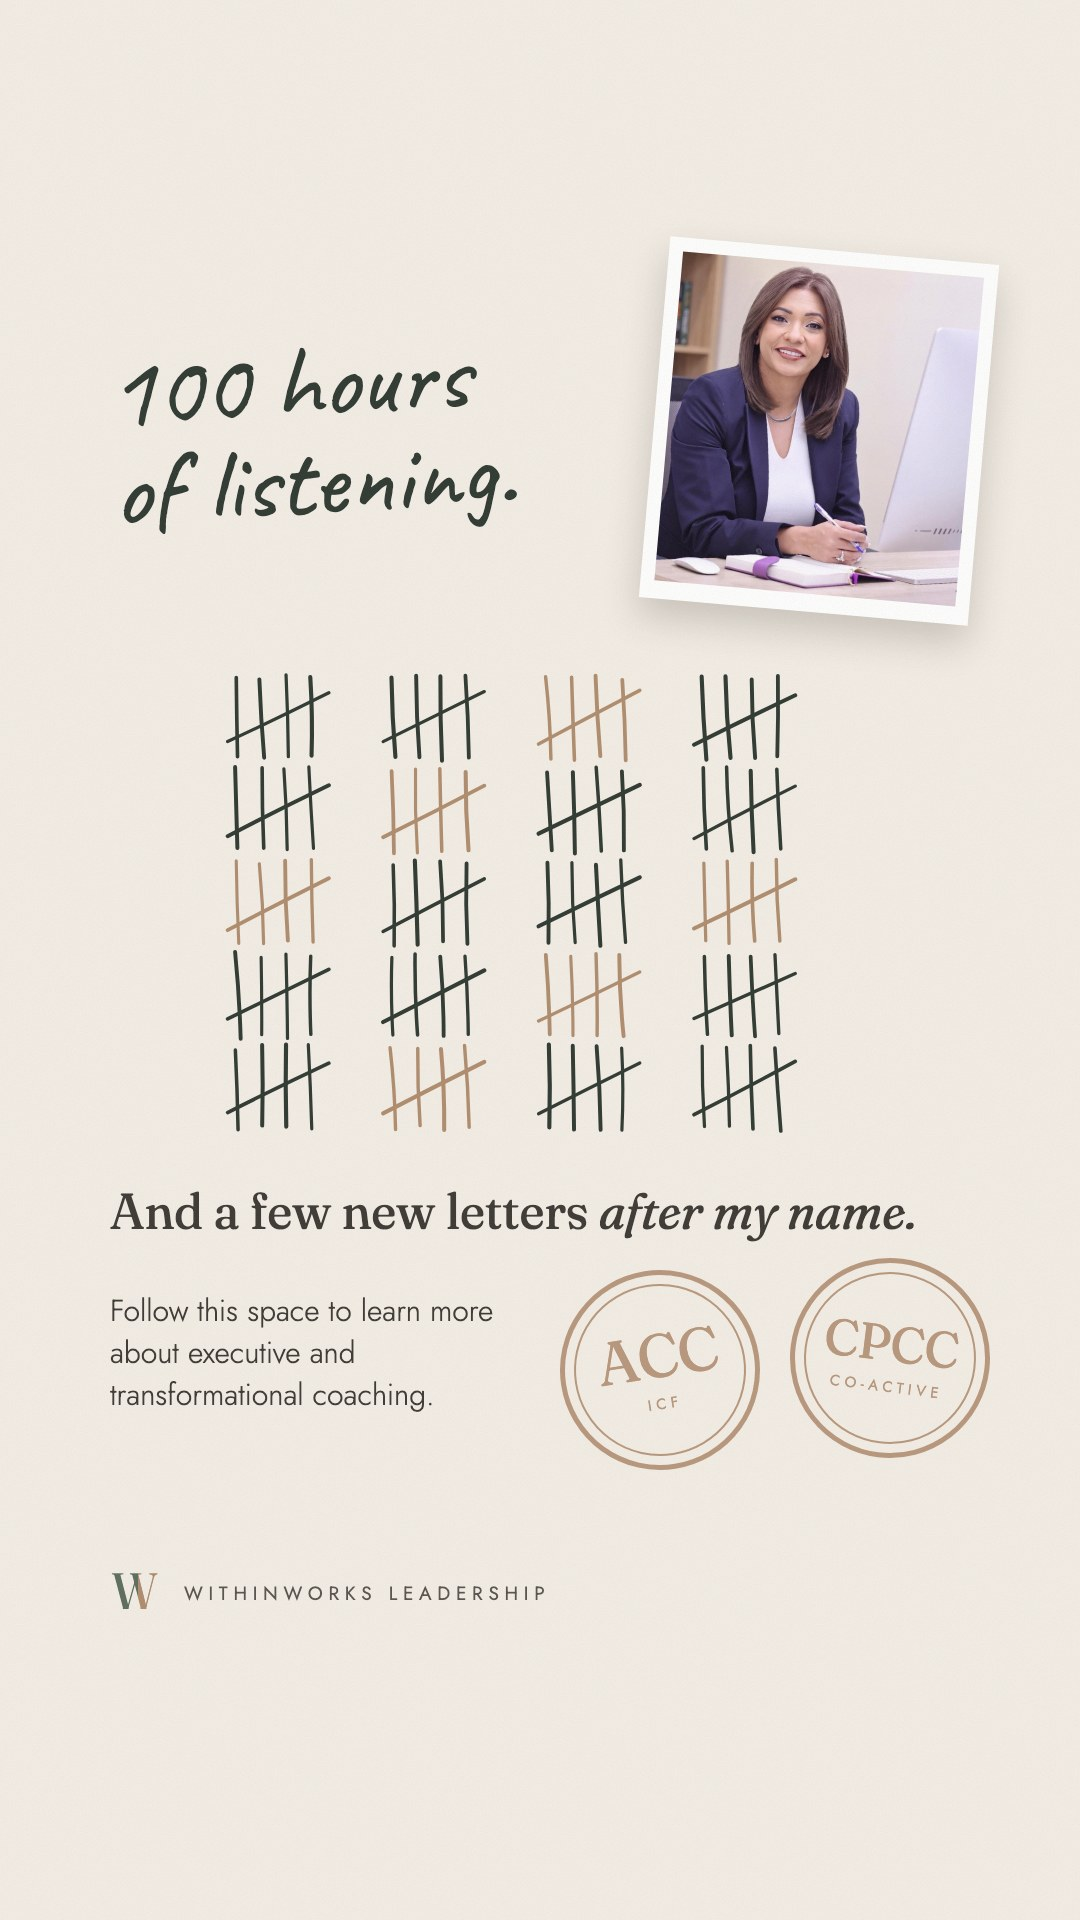
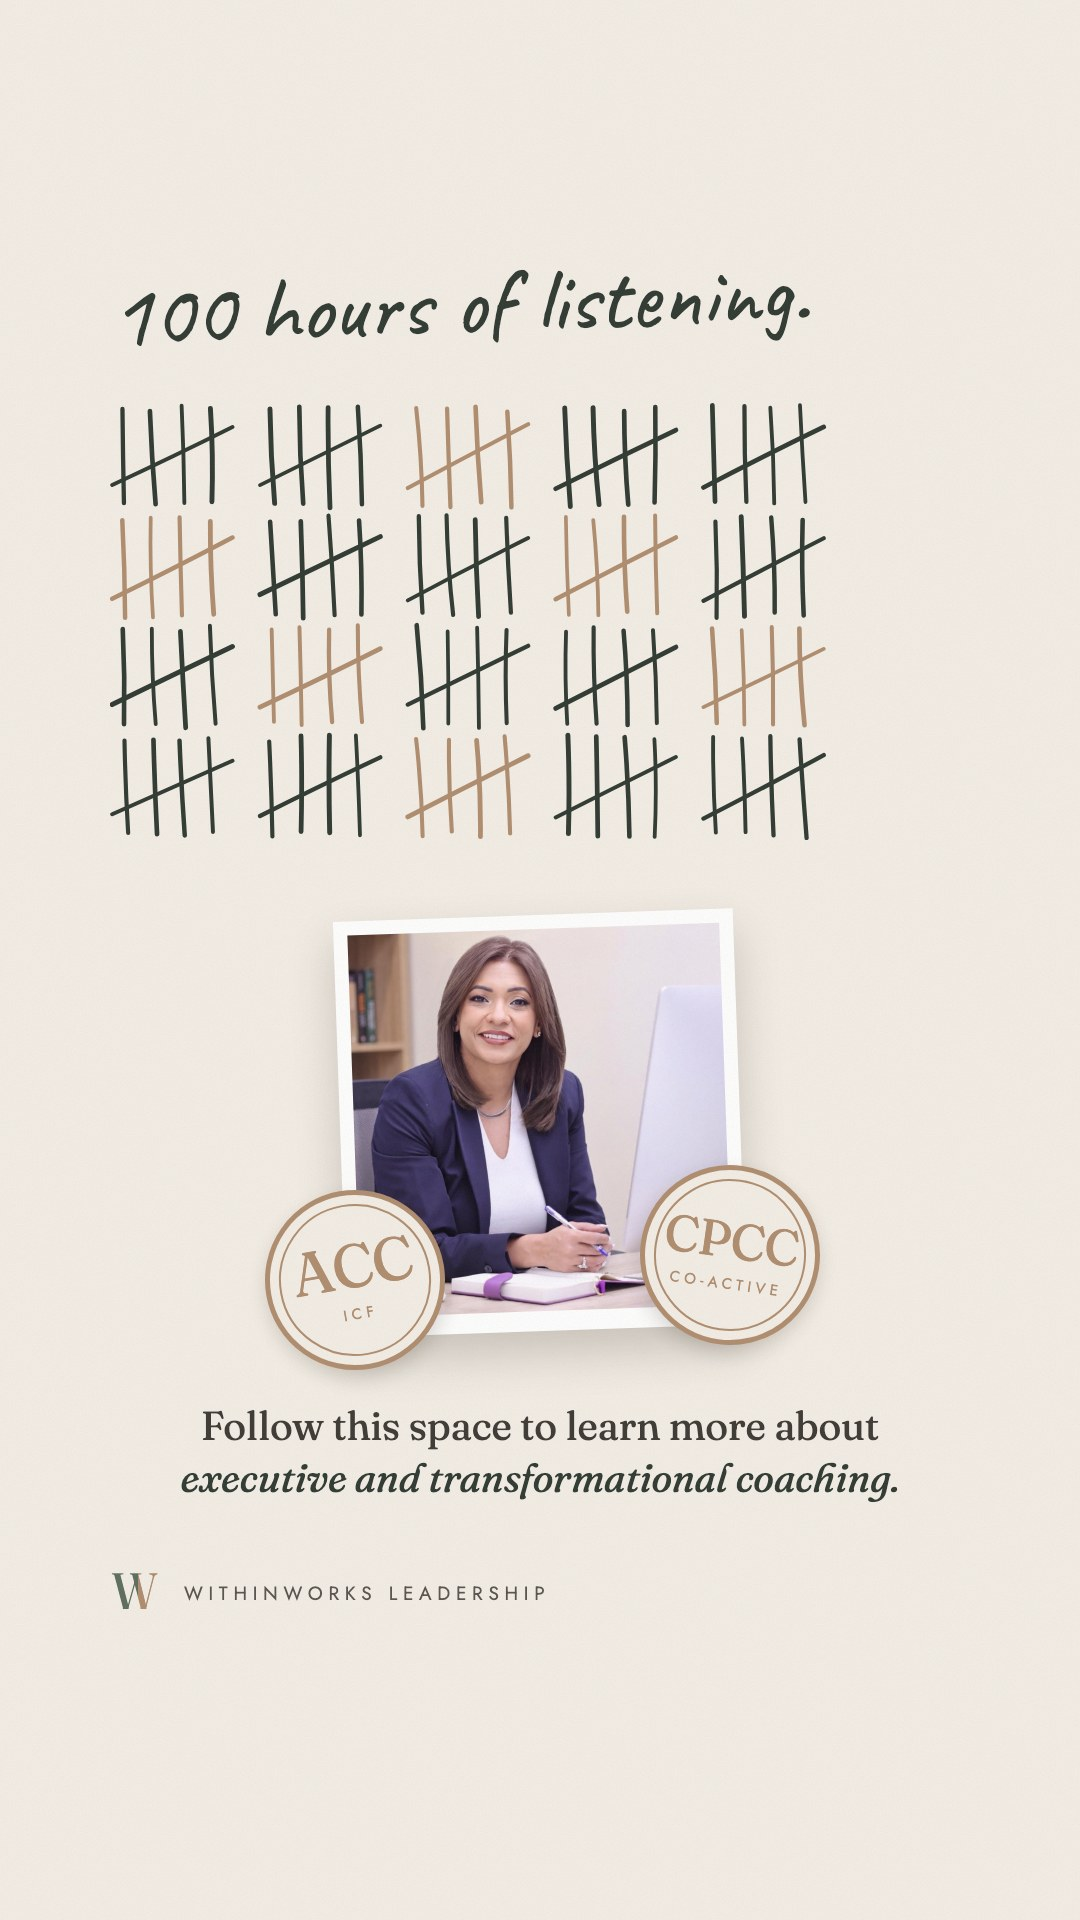
Credentials story final, About title, phone-friendly review

Changed region(s): [[0.0917, 0.125, 0.9167, 0.7812]]

diff --git a/content/index.html b/content/index.html
@@ -23,7 +23,7 @@
 <p class="eyebrow" style="margin-bottom:10px">01 &middot; About Megha<span class="rev">Revised 4 Nov</span></p>
 <div class="ig">
   <div class="ig-head"><img src="../assets/megha.jpg" alt=""><span><b>meghabhalla</b><small>Dubai</small></span><span class="dots">&middot;&middot;&middot;</span></div>
-  <div class="ig-media"><div class="ig-track"><img src="../posts/c1-1a.jpg?v=1793797373" alt="" loading="lazy" width="1080" height="1350"><img src="../posts/c1-1b.jpg?v=1793797704" alt="" loading="lazy" width="1080" height="1350"><img src="../posts/c1-1c.jpg?v=1793797374" alt="" loading="lazy" width="1080" height="1350"></div><span class="ig-count">1/3</span><button class="ig-arrow prev" aria-label="Previous" hidden>&#8249;</button><button class="ig-arrow next" aria-label="Next">&#8250;</button></div>
+  <div class="ig-media"><div class="ig-track"><img src="../posts/c1-1a.jpg?v=1793797373" alt="" loading="lazy" width="1080" height="1350"><img src="../posts/c1-1b.jpg?v=1793798274" alt="" loading="lazy" width="1080" height="1350"><img src="../posts/c1-1c.jpg?v=1793797374" alt="" loading="lazy" width="1080" height="1350"></div><span class="ig-count">1/3</span><button class="ig-arrow prev" aria-label="Previous" hidden>&#8249;</button><button class="ig-arrow next" aria-label="Next">&#8250;</button></div>
   <div class="ig-bar"><svg viewBox="0 0 24 24" class=""><path d="M12 21s-7.5-4.6-9.3-9.2C1.4 8.4 3.6 5 7 5c2 0 3.4 1.1 5 3 1.6-1.9 3-3 5-3 3.4 0 5.6 3.4 4.3 6.8C19.5 16.4 12 21 12 21z"/></svg><svg viewBox="0 0 24 24" class=""><path d="M20.5 12a8.5 8.5 0 0 1-12.4 7.5L3.5 21l1.5-4.4A8.5 8.5 0 1 1 20.5 12z"/></svg><svg viewBox="0 0 24 24" class=""><path d="M22 3 9.2 10.1M22 3l-7 18-3.8-8.6L2 9.5 22 3z"/></svg><span class="ig-pips"><i></i><i></i><i></i></span><svg viewBox="0 0 24 24" class="save"><path d="M19 21l-7-5.2L5 21V3h14z"/></svg></div>
   <div class="ig-cap clip"><b>meghabhalla</b>Hello, I’m Megha. A little of who I am, and why coaching matters so much to me. I’m glad you’re here.</div><button class="ig-more" type="button">more</button>
   <div class="ig-when"><span>Sample &middot; date to be set</span><div class="copyrow"><button class="copy" type="button" title="Copy caption" aria-label="Copy caption"><svg viewBox="0 0 24 24"><rect x="9" y="9" width="11" height="11" rx="2"/><path d="M5 15V6a2 2 0 0 1 2-2h9"/></svg></button><textarea class="cap-src" hidden>Hello, I’m Megha. A little of who I am, and why coaching matters so much to me. I’m glad you’re here.</textarea></div></div>

diff --git a/stories/index.html b/stories/index.html
@@ -23,7 +23,7 @@
 <p class="eyebrow" style="margin-bottom:10px">S1 &middot; Credentials</p>
 <div class="story"><div class="story-bars"><i></i></div>
   <div class="story-head"><img src="../assets/megha.jpg" alt=""><b>meghabhalla</b><small>2h</small></div>
-  <div class="story-track"><img src="../posts/s1-1.jpg?v=1793797863" alt="" loading="lazy" width="1080" height="1920"></div>
+  <div class="story-track"><img src="../posts/s1-1.jpg?v=1793798494" alt="" loading="lazy" width="1080" height="1920"></div>
   <div class="story-foot"><span>Send message</span><svg viewBox="0 0 24 24" class=""><path d="M12 21s-7.5-4.6-9.3-9.2C1.4 8.4 3.6 5 7 5c2 0 3.4 1.1 5 3 1.6-1.9 3-3 5-3 3.4 0 5.6 3.4 4.3 6.8C19.5 16.4 12 21 12 21z"/></svg><svg viewBox="0 0 24 24" class=""><path d="M22 3 9.2 10.1M22 3l-7 18-3.8-8.6L2 9.5 22 3z"/></svg></div>
 </div>
 <div class="review post" data-id="s1-1" data-title="Credentials (story)" style="background:none;border:0;padding:14px 0 0"></div>
